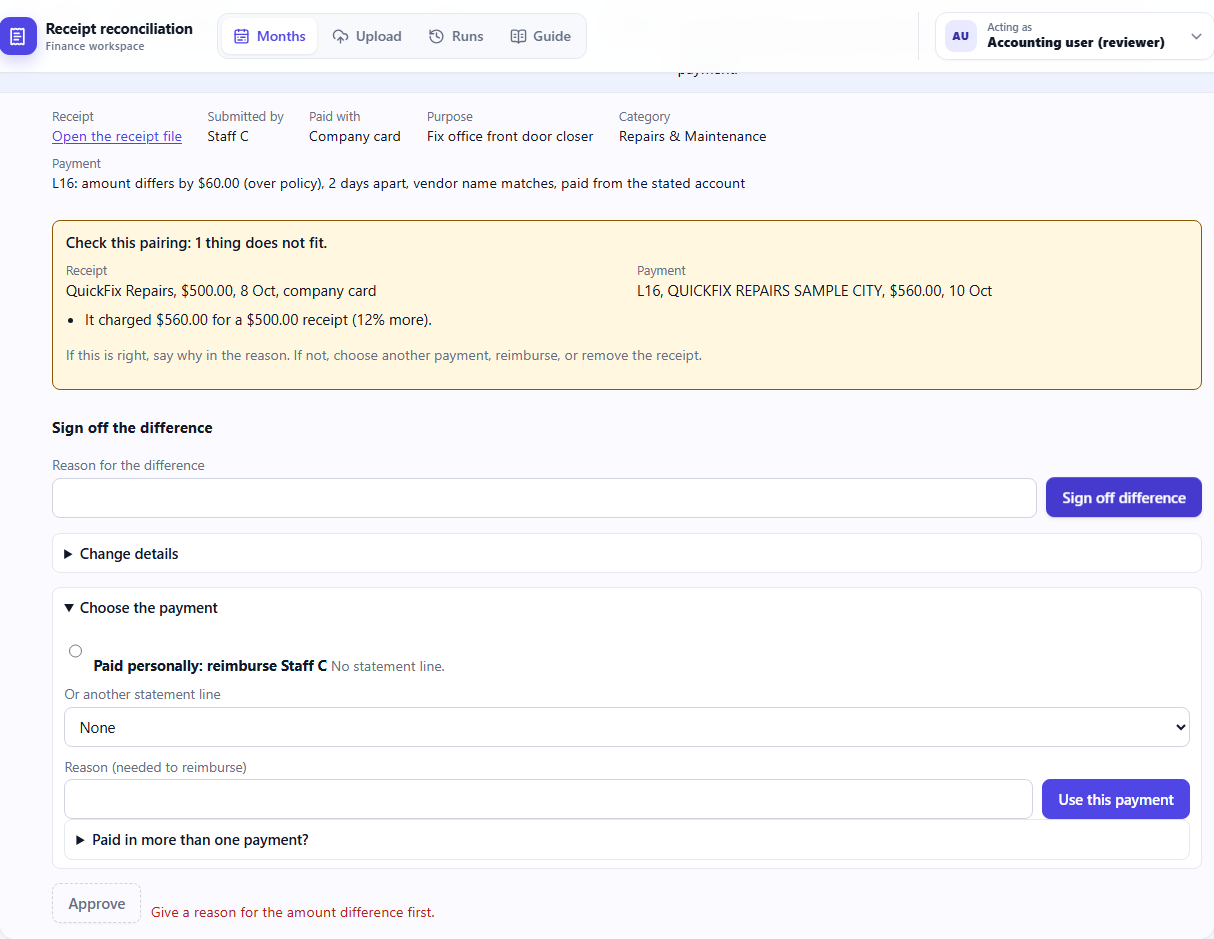
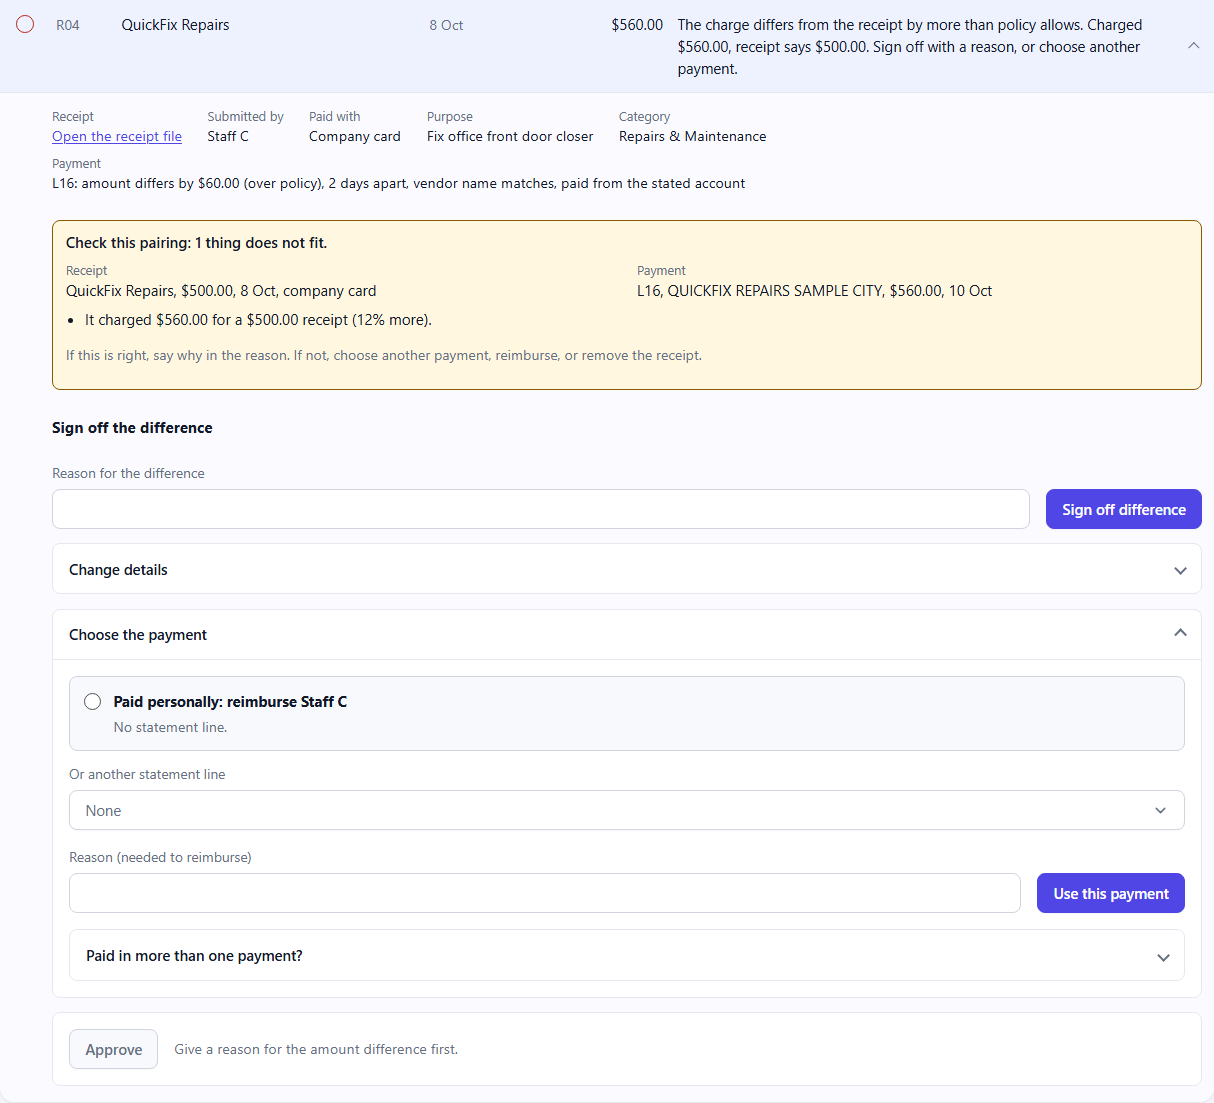
docs: close the sprint - demo linked, names scan recorded, 08 checklist 9/9, final TRACKER entry

diff --git a/docs/sprint/TRACKER.md b/docs/sprint/TRACKER.md
@@ -9,6 +9,8 @@ Read this at the start of every session and update it at the end. This tracker r
 
 ## Current status
 
+**Sprint closed** (2026-11-05). All five days' exit criteria met; every box in the `08` final checklist ticked; demo recorded and linked; released as `v1.0.0`.
+
 **Day 5: everything but the human items is done** (2026-11-05). `final` live run frozen (12/12; 0/33 wrong auto-matches, 0/14 holdout; touches 10/40; p50 2.0 s, p95 5.0 s; at most USD 0.45), replay identical. All handoff documents written; fresh-clone check passed with no key; secrets and generic confidentiality scans clean. **Open, candidate only:** the names scan, recording the demo, then the link in the README, the last `08` boxes, and the `v1.0.0` tag.
 
 **Day 4 open items closed** (Day 4). "Same business" is judged on distinctive words, so two cafés are different vendors and all four wrong pairings from C1 and P1 are refused. Substitutes get a suggested category (R-CAT-6), preselected; going against it needs a tick; 4 of the 9 odd categories from the runs would be caught, the other 5 need rule-table entries (finance lead). The month-end pack uses the same light cards. `pnpm test` 321/321; browser 11/11. Next: Day 5.
@@ -82,8 +84,8 @@ Block-by-block detail: [`days/day-4-evaluate-and-harden/journal.md`](days/day-4-
 - [x] README, RUNBOOK, ARCHITECTURE, EVALUATION final; fresh-clone check: `Done` 2026-11-05. Paths: `README.md` (screenshots in `docs/images/`, doc links, demo link placeholder), `RUNBOOK.md`, `docs/ARCHITECTURE.md`, `docs/EVALUATION.md`. Validation: fresh clone in an ordinary folder, no key: install, seed, 321/321, `final` replay identical, stress 11/11, dev server serving (details in the Day 5 notes).
 - [x] CASE_STUDY, AI_COLLABORATION, NEXT_ITERATION: `Done` 2026-11-05. Paths: `docs/{CASE_STUDY,AI_COLLABORATION,NEXT_ITERATION}.md`. Validation: every number checked against `eval-results/`, the code, or the cold-run records before committing (four drafted claims corrected, see the AI corrections log).
 - [x] Full UI component audit and redesign: `Done` 2026-11-05. Paths: `src/app/{actor-switcher,app-nav,ui}.tsx`, `src/app/globals.css`, the home/upload/review/pack/runs/guide pages, `scripts/ui-audit.mjs`, `package.json`, `pnpm-lock.yaml`. Replaced primitive navigation, native actor select, page headings, status text, uploads, forms, progress, queue tabs/rows, run summaries, and export actions with a consistent responsive component system using Lucide icons. Validation: `pnpm ui:audit` passed 12/12 route/viewport checks, desktop/mobile actor-menu open and server-action switching, and desktop/mobile queue-row expansion; `pnpm test` 26 files, 321 tests passed; `pnpm build`, typecheck, and lint passed.
-- [ ] Demo recorded (human): `In Progress` 2026-11-05. Script: `days/day-5-handoff-and-present/demo-script.md`. Resume condition: the candidate records and shares the link.
-- [ ] Final checklist in `08` complete: `In Progress` 2026-11-05. 6 of 9 boxes ticked with evidence; open: the names scan and the demo video (both the candidate's), and the final TRACKER entry, written after them.
+- [x] Demo recorded (human): `Done` 2026-11-05. Recorded by the candidate from `days/day-5-handoff-and-present/demo-script.md`; linked in `README.md`.
+- [x] Final checklist in `08` complete: `Done` 2026-11-05. 9 of 9 boxes ticked with evidence. The names scan was run privately by the candidate (no hits reported); the video's content was not reviewed by the agent. Released as tag `v1.0.0`.
 
 ## Decision log
 
@@ -187,6 +189,7 @@ Record decisions made under ambiguity. These feed the case study and the "Owners
 | 2026-11-05 | **Confidentiality names scan run by the candidate privately**; the agent ran the generic scan | Give the agent the names | **Candidate's ruling.** The names never enter the conversation or the repository | n/a |
 | 2026-11-05 | **Release as an annotated tag `v1.0.0`**, pushed, no GitHub Release page | Tag + release page; no tag | **Candidate's ruling** | Yes |
 | 2026-11-05 | Screenshots taken against a separate, freshly seeded database (`DATABASE_PATH` override) | Screenshot the working database | The working database held a dozen test months from browser checks; a README should show the month a newcomer sees | n/a |
+| 2026-11-05 | Release `v1.0.0` on the candidate's last commit (`a1f3829`, form restyle) after a browser check of the flows it touched | Tag the commit before it; tag without checking | The tag is what a reviewer clones; the new picker sits on the decision forms the guardrails depend on (6/6 passed) | Yes |
 
 ## AI corrections log
 
@@ -355,6 +358,14 @@ Keep a running list for `AI_COLLABORATION.md`. Do not reconstruct it at the end.
 - Validation: `pnpm ui:audit` passed 12/12 checks across `/`, `/upload`, `/runs`, `/guide`, one review queue, and its pack at 1440 px and 390 px; the audit opened the actor menu, verified all six options and one selected option, submitted a switch to Staff A, and expanded a queue row at both sizes. Every route returned 200 with one H1, one active nav item, no document overflow, no undersized controls, and no captured console errors. `pnpm test` 321/321; production build, typecheck, and lint passed; the open actor menu was inspected in a desktop screenshot.
 - Remaining: no UI work from this block. Candidate-only Day 5 items remain unchanged: names scan, demo recording/link, final checklist, and tag.
 - Known risks: wide data tables intentionally scroll inside their container on phones; the modernised styles have automated and builder visual checks, but no new target-user session.
+
+### 2026-11-05: Sprint close
+
+- Work done: the candidate's UI redesign and form restyle committed and checked (typecheck, lint, 321/321, build; picker flows 6/6 in a browser); README screenshots and button names updated for the new UI; demo linked; names scan recorded as the candidate reported it; `08` checklist 9/9; tagged `v1.0.0`.
+- Decisions: 1 row, "Release v1.0.0 on the candidate's last commit".
+- Validation: as above; `final` evaluation unchanged (the UI changes do not touch the pipeline or the rules).
+- Remaining: none for the sprint. Next is `docs/NEXT_ITERATION.md`, starting with the Accounting user closing one real month.
+- Known risks: the most important limitation stands: one synthetic month, closed by the builder and one proxy; the guardrails built after P1 are untested on a person.
 
 ### YYYY-MM-DD: Session title
 

diff --git a/docs/sprint/days/day-5-handoff-and-present/README.md b/docs/sprint/days/day-5-handoff-and-present/README.md
@@ -41,7 +41,7 @@ Saved elsewhere (paths fixed by the final layout in `08`):
 
 ## Exit criteria
 
-- [ ] Every box in the `08` final checklist is ticked or explicitly marked not done with a reason
+- [x] Every box in the `08` final checklist is ticked or explicitly marked not done with a reason (9 of 9 ticked, Day 5)
 
 Track task status in [`TRACKER.md`](../../TRACKER.md) under "Day 5".
 
@@ -51,6 +51,8 @@ Track task status in [`TRACKER.md`](../../TRACKER.md) under "Day 5".
 
 **Secrets scan.** `.env` was never committed and is ignored. No key-like string (`sk-ant`, `sk-proj-`, `sk-` + 20 characters, a non-empty `OPENAI_API_KEY=`) in any version of any file; the only matches are documentation placeholders. `.env.example` covers all 18 variables the app reads and has no secret values.
 
-**Generic confidentiality scan** (all tracked text files and every commit message): no email address in files; in commit messages only the AI co-author line; every commit authored under one personal address; web domains only `localhost`, the public FX service, and `nodejs.org`; every phone number in the fictional 555 range; all 22 ABN-shaped numbers **fail the official ABN checksum**, so none can be a real business. **Names scan:** run by the candidate privately (the employer, product, people, and client names are not written anywhere in this repository); result recorded in the `08` checklist.
+**Generic confidentiality scan** (all tracked text files and every commit message): no email address in files; in commit messages only the AI co-author line; every commit authored under one personal address; web domains only `localhost`, the public FX service, and `nodejs.org`; every phone number in the fictional 555 range; all 22 ABN-shaped numbers **fail the official ABN checksum**, so none can be a real business. **Names scan:** run by the candidate privately (the employer, product, people, and client names are not written anywhere in this repository): no hits reported. Recorded in the `08` checklist.
+
+**Release check (Day 5, commit `a1f3829`, the candidate's form restyle with a custom picker).** Typecheck, lint, 321/321 tests, and build clean; a scripted browser run on a production build drove the new picker the way a person does: R04 → L16 from the payment cards, the picker sets the form value, P1's R20 → $10 card fee refused, the café payment's category suggestion preselected, filing it elsewhere refused, then recorded with the override tick (6/6). README screenshot 3 re-taken on the restyled forms.
 
 **Demo:** the timed script against the real screens is in [`demo-script.md`](demo-script.md).

diff --git a/docs/sprint/08-deliverables.md b/docs/sprint/08-deliverables.md
@@ -83,9 +83,9 @@ Use this framing for the confidential origin: *"This system comes from a real fi
 - [x] Fresh clone: three-step setup works with **no API key** (replay mode). *Day 5: install 12 s, seed, dev server; see the Day 5 notes.*
 - [x] `pnpm test` and `pnpm eval -- --mode replay --label final` pass in the fresh clone. *321/321; 12/12 and every metric identical to the live `final`.*
 - [x] `.env.example` has every variable and no secrets; `git log -p | grep -i "sk-ant"` returns nothing. *All 18 variables; no key-like string in any version of any file (OpenAI patterns checked too).*
-- [ ] Confidentiality scan: no employer, product, person, or client names and no real figures in code, data, docs, commits, or video. *Generic scan clean (Day 5 notes). **Open:** the names scan (run privately by the candidate) and the video.*
+- [x] Confidentiality scan: no employer, product, person, or client names and no real figures in code, data, docs, commits, or video. *Generic scan clean (Day 5 notes). Names scan run privately by the candidate over every file, every past version, and all commit messages: no hits reported ("I don't think I found any"). The video was recorded by the candidate on the synthetic sample month; its content was not reviewed by the agent.*
 - [x] TC01–TC12 results with pass/fail; ≥ 3 failure analyses; before/after regression; B0/B1/final comparison. *`EVALUATION.md`; six analyses in `failures.md`; B0 is a labelled estimate.*
 - [x] Quality, speed (p50/p95), cost, and human-touch metrics reported, with the run label and date. *`final`, 2026-11-05.*
 - [x] README, RUNBOOK, ARCHITECTURE, EVALUATION, CASE_STUDY, AI_COLLABORATION, NEXT_ITERATION present
-- [ ] Demo video recorded (five minutes or less) and linked in the README. ***Open:** recorded by the candidate from `days/day-5-handoff-and-present/demo-script.md`.*
-- [ ] `TRACKER.md` final session entry written
+- [x] Demo video recorded (five minutes or less) and linked in the README. *Recorded by the candidate from `days/day-5-handoff-and-present/demo-script.md`; linked at the top of the README.*
+- [x] `TRACKER.md` final session entry written

diff --git a/README.md b/README.md
@@ -2,7 +2,7 @@
 
 This app matches a month of staff receipts to the company's card and bank statement, then shows you only the items that need a person. When every item is resolved, it gives you the month-end pack: a ledger file, an exceptions log, and a summary.
 
-**Demo (5 minutes):** DEMO_LINK_TO_ADD
+**Demo (5 minutes):** [watch the recording](https://drive.google.com/file/d/1xujHA2PZWDcfBwnBHMyR_suerbbglgxP/view?usp=sharing)
 
 For whoever runs the app: [`RUNBOOK.md`](RUNBOOK.md). How it works: [`docs/ARCHITECTURE.md`](docs/ARCHITECTURE.md). Measured results: [`docs/EVALUATION.md`](docs/EVALUATION.md). The story: [`docs/CASE_STUDY.md`](docs/CASE_STUDY.md). All data in this repository is synthetic.
 
